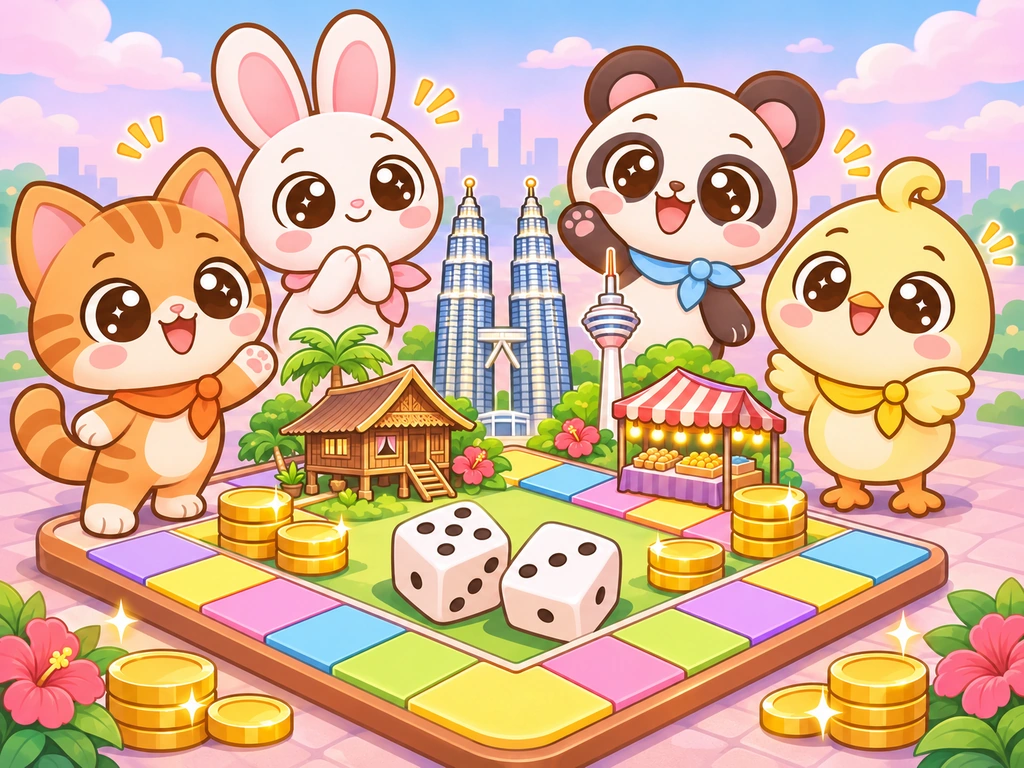
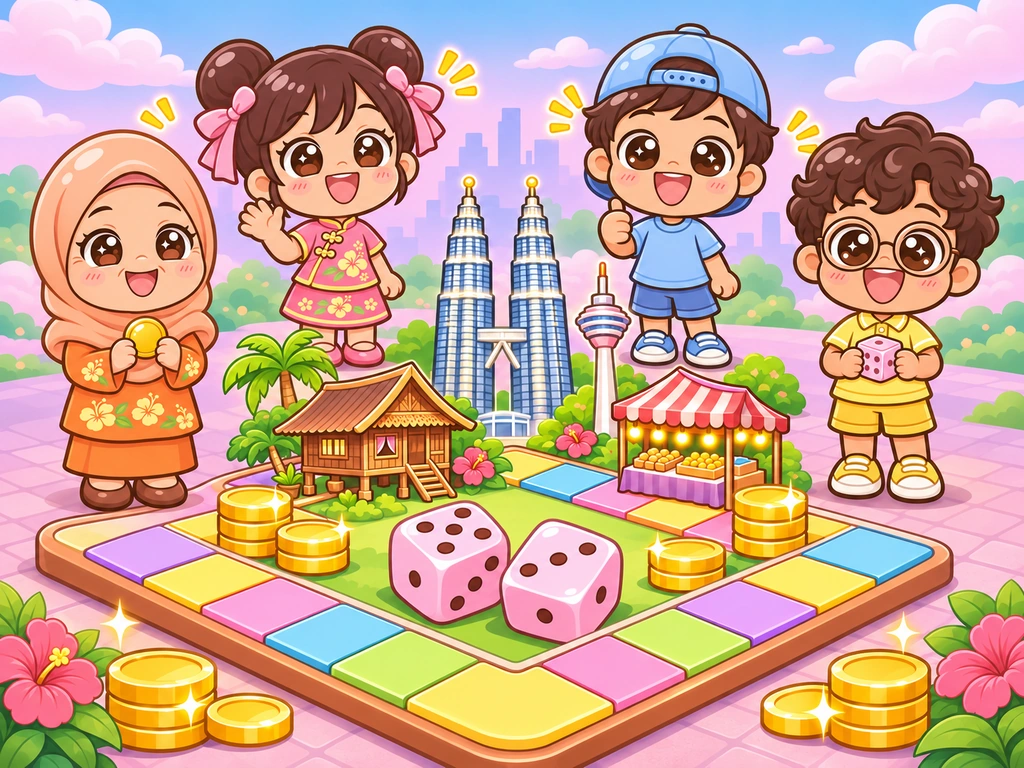
art(tycoon): batch 10 human kids hub card and menu background

diff --git a/sw.js b/sw.js
@@ -1,5 +1,5 @@
 // Tukar VERSION setiap kali update game supaya phone ambil versi baru.
-const VERSION = 'mycozyworld-v70.2';
+const VERSION = 'mycozyworld-v70.3';
 const ASSETS = [
   './', 'index.html', 'game.js', 'manifest.json', 'salon/index.html', 'salon/style.css', 'salon/game.js', 'salon/sprites/list.json', 'cozy-chess/', 'cozy-chess/index.html', 'cozy-chess/style.css', 'cozy-chess/chess-core.js', 'cozy-chess/ai-worker.js', 'cozy-chess/game.js', 'cozy-chess/sprites/list.json', 'cozy-tycoon/', 'cozy-tycoon/index.html', 'cozy-tycoon/style.css', 'cozy-tycoon/game.js', 'cozy-tycoon/sprites/list.json', 'cozy-kampung/', 'cozy-kampung/index.html', 'cozy-kampung/style.css', 'cozy-kampung/game.js', 'cozy-kampung/sprites/list.json', 'mamak-rush/', 'mamak-rush/index.html', 'mamak-rush/style.css', 'mamak-rush/game.js', 'mamak-rush/sprites/list.json',
   ...['white', 'black'].flatMap(c => ['king', 'queen', 'rook', 'bishop', 'knight', 'pawn'].flatMap(t => ['idle', 'attack', 'hurt'].map(n => `cozy-chess/sprites/${c}_${t}_${n}.webp`))),
